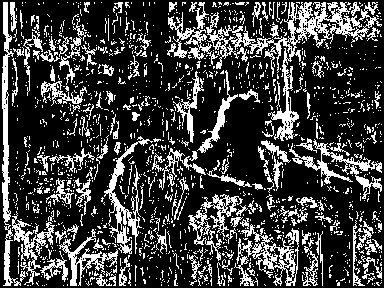
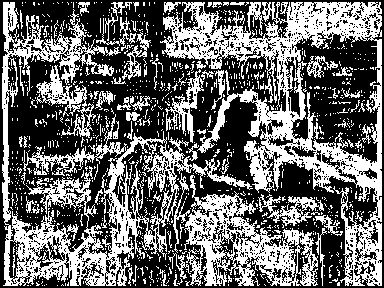
tp finished, report todo

diff --git a/arnaud-cojez.cpp b/arnaud-cojez.cpp
@@ -249,16 +249,24 @@ Mat iviComputeRightSSDCost(const Mat& mLeftGray,
 Mat iviLeftRightConsistency(const Mat& mLeftDisparity,
                             const Mat& mRightDisparity,
                             Mat& mValidityMask) {
+
     Mat mDisparity(mLeftDisparity.size(), CV_8U);
-    for(int xl = 0; xl < mLeftDisparity.cols; xl++) {
+
+    for(int x = 0; x < mLeftDisparity.cols; x++) {
       for (int y = 0; y < mLeftDisparity.rows; y++) {
-         int xr = xl - (double) mLeftDisparity.at<unsigned char>(y,xl);
-         if((double) mLeftDisparity.at<unsigned char>(y, xl) == (double) mRightDisparity.at<unsigned char>(y,xl - (double) mLeftDisparity.at<unsigned char>(y, xl))) {
-           mValidityMask.at<unsigned char>(y, xl) = 0;
-           mDisparity.at<unsigned char>(y, xl) = (double) mLeftDisparity.at<unsigned char>(y, xl);
-         } else {
-           mValidityMask.at<unsigned char>(y, xl) = 255;
-         }
+        double dl = (double) mLeftDisparity.at<unsigned char>(y, x);
+        double dr = (double) mRightDisparity.at<unsigned char>(y, x);
+
+        double dlStep = (double) mLeftDisparity.at<unsigned char>(y, x + dr);
+        double drStep = (double) mRightDisparity.at<unsigned char>(y, x - dl);
+
+        if(dl == drStep && dr == dlStep) {
+          mValidityMask.at<unsigned char>(y, x) = 0;
+          mDisparity.at<unsigned char>(y, x) = (double) mLeftDisparity.at<unsigned char>(y, x);
+        } else {
+          mValidityMask.at<unsigned char>(y, x) = 255;
+          mDisparity.at<unsigned char>(y,x) = 0;
+        }
       }
     }
     return mDisparity;
